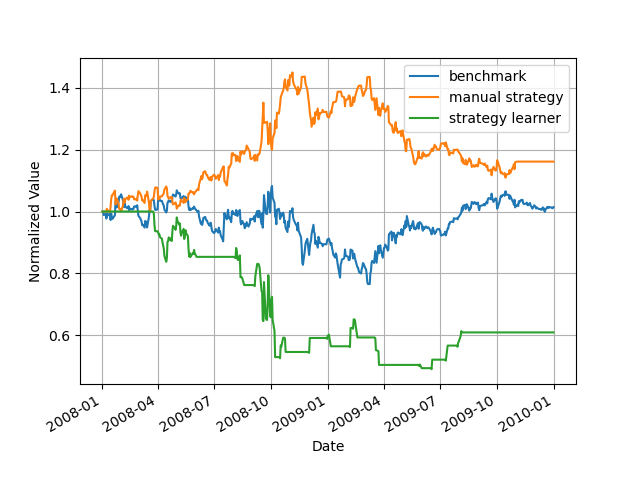
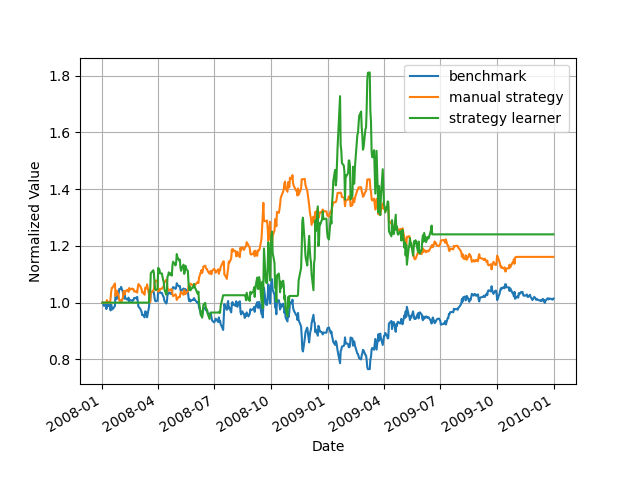
working learner proj8

diff --git a/strategy_evaluation/StrategyLearner.py b/strategy_evaluation/StrategyLearner.py
@@ -65,7 +65,8 @@ class StrategyLearner(object):
         self.verbose = verbose  		  	   		     		  		  		    	 		 		   		 		  
         self.impact = impact  		  	   		     		  		  		    	 		 		   		 		  
         self.commission = commission
-        self.learner = q.QLearner(alpha=0.5, rar=0.99, radr=0.999, num_states=self.num_bins**6 * 3, num_actions=3, dyna=1000)
+        # self.learner = q.QLearner(alpha=0.5, rar=0.99, radr=0.999, num_states=self.num_bins**5, num_actions=3, dyna=0)
+        self.learner = q.QLearner(alpha=0.2, rar=0.9, radr=0.999, num_states=self.num_bins ** 4, num_actions=3, dyna=0)
 
         self.sym = None
         self.price_data = None
@@ -76,6 +77,8 @@ class StrategyLearner(object):
         # self.vol = None
         self.position = 0
 
+        self.states = None
+
     def setup(self, price_data):
         self.sym = price_data.columns[0]
         self.price_data = indicators.normalize(price_data)
@@ -85,46 +88,46 @@ class StrategyLearner(object):
         self.mm = indicators.momentum(self.price_data)
         # self.vol = indicators.volatility(self.price_data)
 
-    def bin(self, data):
-        div = 2 / self.num_bins # (-1, 1) input
-        if np.isnan(data):
-            return None
+        sma20_50 = pd.qcut(self.sma20['SMA'] - self.sma50['SMA'], self.num_bins, labels=False)
+        sma50_20 = pd.qcut(self.sma50['SMA'] - self.sma20['SMA'], self.num_bins, labels=False)
+        sma = self.sma20
+        for td in self.sma20.iterrows():
+            date = td[0]
+            sma20_val = self.sma20['SMA'][date]
+            sma50_val = self.sma50['SMA'][date]
+            if date - dt.timedelta(days=1) in self.sma20['SMA']:
+                sma20_val_prev = self.sma20['SMA'][date - dt.timedelta(days=1)]
+            else:
+                sma20_val_prev = np.nan
+            if date - dt.timedelta(days=1) in self.sma50['SMA']:
+                sma50_val_prev = self.sma50['SMA'][date - dt.timedelta(days=1)]
+            else:
+                sma50_val_prev = np.nan
 
-        bins = np.arange(-div, 1.1, div)
-        return np.min([np.sum(bins < data) - 1, self.num_bins - 1])
+            if np.isnan(sma20_val) or np.isnan(sma50_val):
+                sma['SMA'][date] = np.nan
+            elif sma20_val > sma50_val and sma20_val_prev < sma50_val_prev:
+                sma['SMA'][date] = 1
+            elif sma20_val < sma50_val and sma20_val_prev > sma50_val_prev:
+                sma['SMA'][date] = 2
+            else:
+                sma['SMA'][date] = 0
 
-        # if data < -div:
-        #     return 0
-        # if data < 0:
-        #     return 1
-        # if data < 0.5:
-        #     return 2
-        # return 3
+        bb_upper = pd.qcut(self.price_data[self.sym] - self.bb_upper['bb_upper'], self.num_bins, labels=False)
+        bb_lower = pd.qcut(self.price_data[self.sym] - self.bb_lower['bb_lower'], self.num_bins, labels=False)
 
-    def get_state(self, date):
-        s = []
-        s.append(self.bin(self.price_data[self.sym][date]))
-        # s.append(self.bin(self.sma20['SMA'][date]))
-        # s.append(self.bin(self.sma50['SMA'][date]))
-        s.append(self.bin(self.sma20['SMA'][date] - self.sma50['SMA'][date]))
-        s.append(self.bin(self.sma50['SMA'][date] - self.sma20['SMA'][date]))
+        self.price_data = pd.qcut(self.price_data[self.sym], self.num_bins, labels=False)
+        # self.sma20 = pd.qcut(self.sma20['SMA'], self.num_bins, labels=False)
+        # self.sma50 = pd.qcut(self.sma50['SMA'], self.num_bins, labels=False)
+        self.bb_lower = pd.qcut(self.bb_lower['bb_lower'], self.num_bins, labels=False)
+        self.bb_upper = pd.qcut(self.bb_upper['bb_upper'], self.num_bins, labels=False)
+        self.mm = pd.qcut(self.mm['momentum'], self.num_bins, labels=False)
 
-        # s.append(self.bin(self.bb_lower['bb_lower'][date]))
-        # s.append(self.bin(self.bb_upper['bb_upper'][date]))
-        s.append(self.bin(self.price_data[self.sym][date] - self.bb_upper['bb_upper'][date]))
-        s.append(self.bin(self.price_data[self.sym][date] - self.bb_lower['bb_lower'][date]))
-
-        s.append(self.bin(self.mm['momentum'][date]))
-        s.append(self.position + 1)
-        if any(si is None for si in s):
-            return 0
-        state = 0
-        for i in range(len(s)):
-            state += s[i] * self.num_bins**i
-        return state
+        # self.states = sma20_50*3**4 + sma50_20*3**3 + bb_lower*3**2 + bb_upper*3 + self.mm
+        self.states = sma['SMA']*3**3 + bb_upper*3**2 + bb_lower*3**1 + self.mm
 
     def update_position(self, action):
-        if action == 0:
+        if action == 1:
             trade = -1000 - 1000 * self.position
             self.position = -1
         elif action == 2:
@@ -159,24 +162,31 @@ class StrategyLearner(object):
         price_data = ut.get_data([symbol], pd.date_range(sd, ed), addSPY=True)
         self.setup(pd.DataFrame(price_data[symbol]))
 
-        s = self.get_state(price_data.first_valid_index())
-        a = self.learner.querysetstate(s)
-        self.update_position(a)
-        p = price_data[symbol][0]
+        for i in range(0, 100):
+            date = self.states.first_valid_index()
+            s0 = int(self.states[date])
+            a = self.learner.querysetstate(s0)
+            self.update_position(a)
+            p = price_data[self.sym][date]
+            date += dt.timedelta(days=1)
 
-        counter = 51
-        for i in range(10):
-            for td in price_data.iterrows():
-                if counter > 0:
-                    counter -= 1
-                else:
-                    date = td[0]
-                    p_prime = td[1][symbol]
+            date_final = self.states.last_valid_index()
+            while date <= date_final:
+                if date in price_data[self.sym]:
+                    p_prime = price_data[self.sym][date]
                     delta = p_prime - p
                     r = self.position * delta
-                    s_prime = self.get_state(date)
-                    a = self.learner.query(s_prime, r)
+                    if r > 0:
+                        r = 1
+                    elif r < 0:
+                        r = -1
+                    else:
+                        r = 0
+
+                    s = int(self.states[date])
+                    a = self.learner.query(s, r)
                     self.update_position(a)
+                date += dt.timedelta(days=1)
   		  	   		     		  		  		    	 		 		   		 		  
     # this method should use the existing policy and test it against new data  		  	   		     		  		  		    	 		 		   		 		  
     def testPolicy(  		  	   		     		  		  		    	 		 		   		 		  
@@ -208,7 +218,7 @@ class StrategyLearner(object):
         price_data = ut.get_data([symbol], pd.date_range(sd, ed), addSPY=True)
         self.setup(pd.DataFrame(price_data[symbol]))
 
-        s = self.get_state(price_data.first_valid_index())
+        s = int(self.states[self.states.first_valid_index()])
         a = self.learner.querysetstate(s)
         self.update_position(a)
 
@@ -218,12 +228,12 @@ class StrategyLearner(object):
                 counter -= 1
             else:
                 date = td[0]
-                s_prime = self.get_state(date)
+                s_prime = int(self.states[date])
                 a = self.learner.querysetstate(s_prime)
-                trade = self.update_position(a)
+                trade = 1 * self.update_position(a)
 
                 if trade != 0:
-                    output['Date'].append(date)
+                    output['Date'].append(date - dt.timedelta(days=1))
                     output['Trade'].append(trade)
         trades = pd.DataFrame(data=output['Trade'], index=output['Date'], columns=[symbol])
         return trades  		  	   		     		  		  		    	 		 		   		 		  
